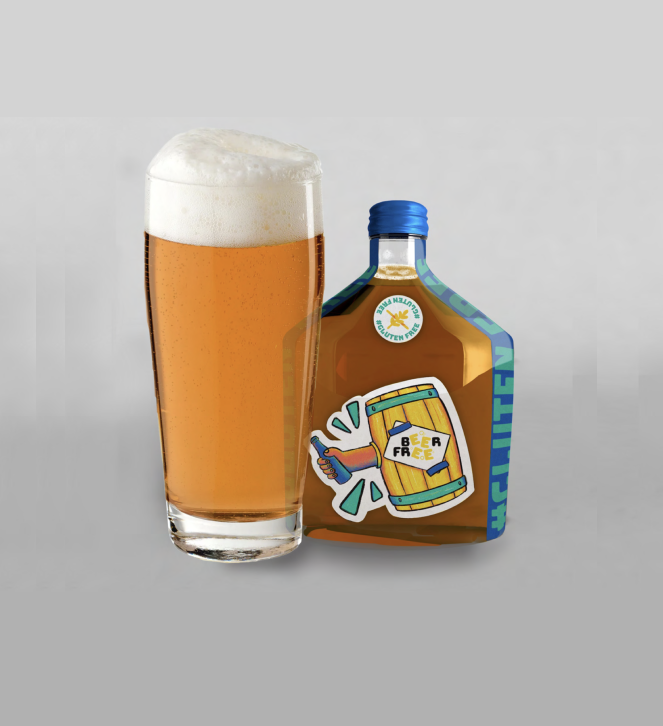
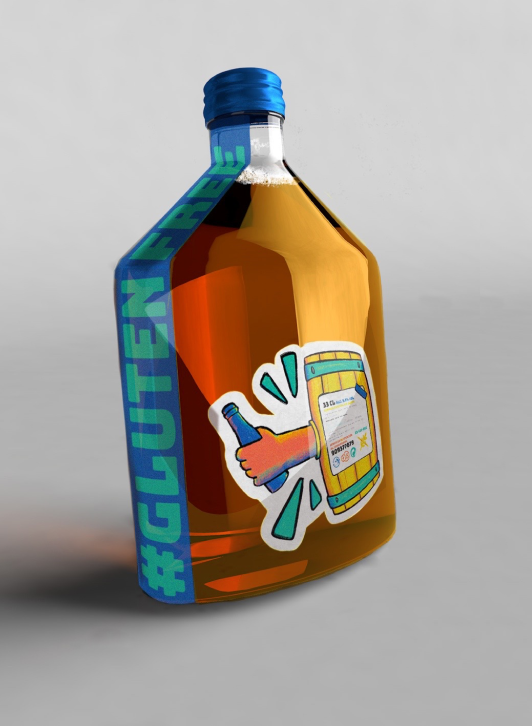
gallery_end
Galería con carrusel

diff --git a/index.html b/index.html
@@ -88,8 +88,30 @@
                     <img src="media/gallery3.png" alt="">
                 </div>
                 <div class="col-6" id="producto_imagen">
-                    <!-- Faltan las imágenes que pasarían con el tiempo o si pulsas en galería  -->
-                    <img src="media/gallerygrande.png" alt="">
+                    <div id="carouselExampleAutoplaying" class="carousel slide" data-bs-ride="carousel">
+                        <div class="carousel-inner">
+                          <div class="carousel-item active">
+                            <img src="media/gallerygrande.png" class="d-block w-100" alt="...">
+                          </div>
+                          <div class="carousel-item">
+                            <img src="media/gallerygrande2.png" class="d-block w-100" alt="...">
+                          </div>
+                          <div class="carousel-item">
+                            <img src="media/gallerygrande3.png" class="d-block w-100" alt="...">
+                          </div>
+                          <div class="carousel-item">
+                            <img src="media/gallerygrande4.png" class="d-block w-100" alt="...">
+                          </div>
+                        </div>
+                        <button class="carousel-control-prev" type="button" data-bs-target="#carouselExampleAutoplaying" data-bs-slide="prev">
+                          <span class="carousel-control-prev-icon" aria-hidden="true"></span>
+                          <span class="visually-hidden">Previous</span>
+                        </button>
+                        <button class="carousel-control-next" type="button" data-bs-target="#carouselExampleAutoplaying" data-bs-slide="next">
+                          <span class="carousel-control-next-icon" aria-hidden="true"></span>
+                          <span class="visually-hidden">Next</span>
+                        </button>
+                      </div>
                 </div>
                 <!-- Descripción del producto y opción de compra -->
                 <div class="col-4" id="producto_info">

diff --git a/css/styles.css b/css/styles.css
@@ -129,7 +129,6 @@ h5 {
     color: #FAC100;
 }
 
-/* hay que ver cómo arreglamos el hecho de que el borde vaya por fuera en vez de por dentro */
 .btn-secondary {
     margin-left: 0.5em;
     width: auto;
@@ -398,7 +397,13 @@ footer .row * {
     margin-left: 55em;
 }
 
+#carouselExampleAutoplaying {
+    width: 90%;
+}
 
+#producto_galeria img {
+    margin-bottom: 2.15em;
+}
 
 
 
